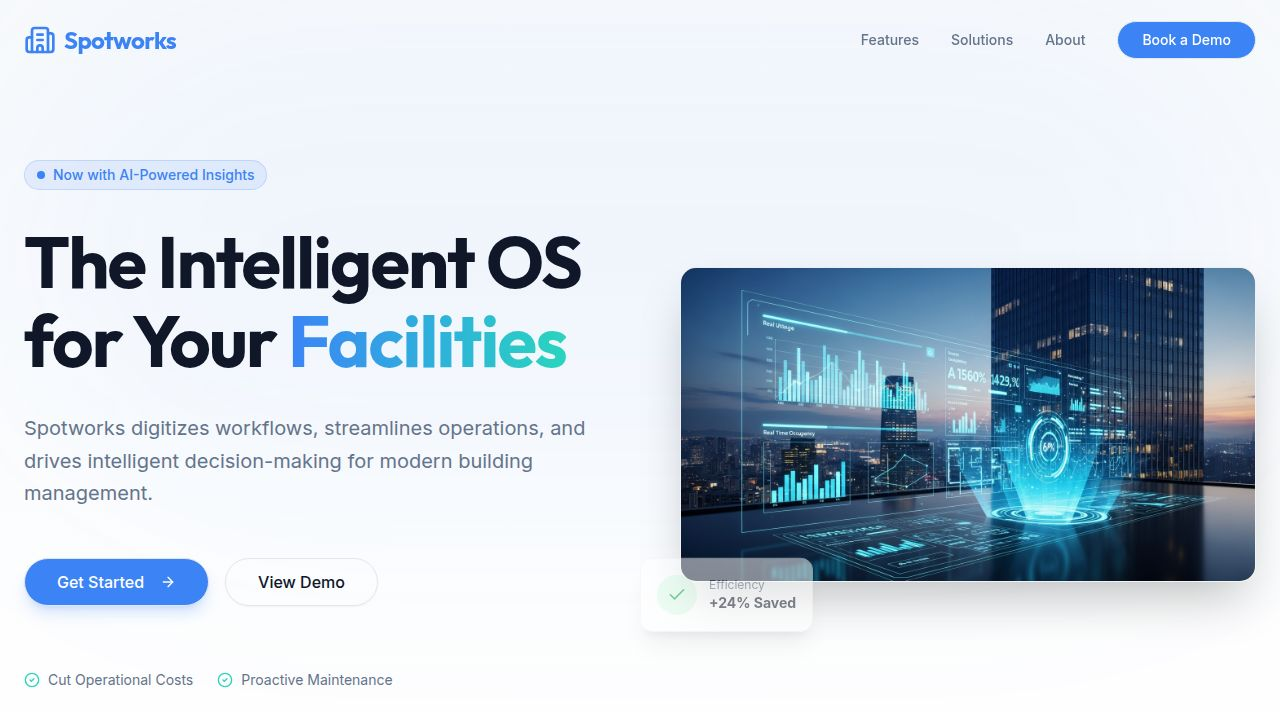
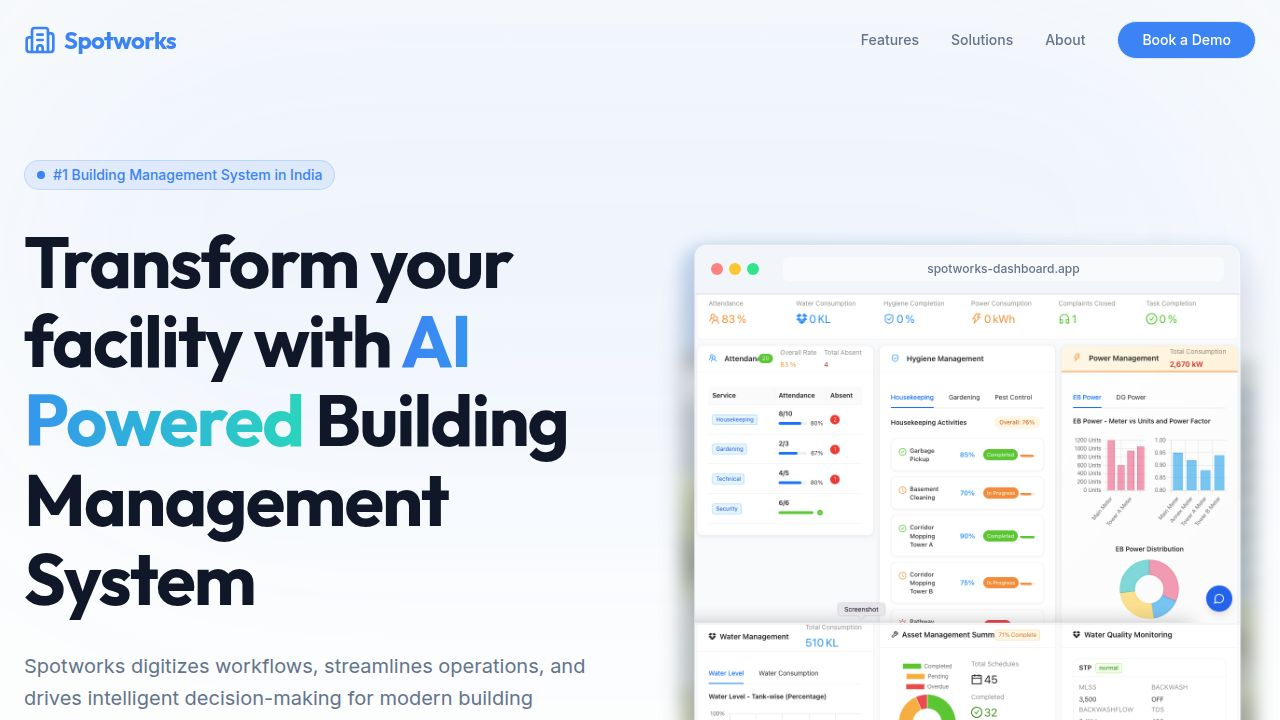
Combine dashboard images into a single application view
Integrate two dashboard screenshots into a unified window container, overlaying them onto a blurred background image of a Bangalore residential complex.

Replit-Commit-Author: Agent
Replit-Commit-Session-Id: 6fe2b32b-3a3d-48ad-bf62-5d68a3ad3876
Replit-Commit-Checkpoint-Type: full_checkpoint
Replit-Commit-Event-Id: 4e037a2d-032e-45ed-bcba-53b3e1752d0f
Replit-Commit-Screenshot-Url: https://storage.googleapis.com/screenshot-production-us-central1/116a396b-b7e3-476f-884f-2fcf0351d495/6fe2b32b-3a3d-48ad-bf62-5d68a3ad3876/M1GJejG

diff --git a/client/src/components/sections/hero.tsx b/client/src/components/sections/hero.tsx
@@ -1,8 +1,8 @@
 import { Button } from "@/components/ui/button";
 import { ArrowRight, CheckCircle2 } from "lucide-react";
 import { motion } from "framer-motion";
-import dashboard1 from "@assets/Dashboard_1_1764862219140.png";
-import dashboard2 from "@assets/Dashboard_2_1764862219143.png";
+import dashboard1 from "@assets/Dashboard_1_1764862596336.png";
+import dashboard2 from "@assets/Dashboard_2_1764862596340.png";
 import bgImage from "@assets/generated_images/modern_luxury_residential_apartment_complex_in_bangalore_with_lush_greenery_and_skyline.png";
 
 export function Hero() {
@@ -55,63 +55,71 @@ export function Hero() {
             </div>
           </div>
 
-          {/* Hero Image/Data Composition */}
-          <div className="lg:w-1/2 relative">
-             {/* Base Image: Bangalore Apartment */}
-            <div className="relative rounded-2xl overflow-hidden shadow-2xl border border-white/20 dark:border-slate-800 bg-slate-900/5 dark:bg-white/5 backdrop-blur-sm group aspect-[4/3]">
-              <div className="absolute inset-0 bg-gradient-to-tr from-primary/10 to-transparent opacity-0 group-hover:opacity-100 transition-opacity duration-500 pointer-events-none" />
-              <img 
+          {/* Right Side Visuals */}
+          <div className="lg:w-1/2 relative flex justify-center items-center">
+            
+            {/* Background Context Image - Faded & Blurred */}
+            <div className="absolute inset-0 rounded-3xl overflow-hidden opacity-40 blur-sm border border-slate-200 dark:border-slate-800">
+               <img 
                 src={bgImage} 
-                alt="Modern Residential Complex in Bangalore" 
-                className="w-full h-full object-cover transform group-hover:scale-105 transition-transform duration-700"
+                alt="Bangalore Context" 
+                className="w-full h-full object-cover"
               />
-              {/* Overlay Darkener for better contrast if needed */}
-              <div className="absolute inset-0 bg-slate-900/20 mix-blend-multiply" />
             </div>
 
-            {/* Dashboard 1 Overlay */}
+            {/* Unified Dashboard Window */}
             <motion.div 
-              initial={{ opacity: 0, y: 20 }}
-              animate={{ opacity: 1, y: 0 }}
-              transition={{ delay: 0.3, duration: 0.8 }}
-              className="absolute -bottom-10 -left-10 w-[70%] z-20 rounded-xl overflow-hidden shadow-2xl border border-white/40 bg-white/90 backdrop-blur-md dark:bg-slate-900/90 dark:border-slate-700"
+              initial={{ opacity: 0, scale: 0.95, y: 20 }}
+              animate={{ opacity: 1, scale: 1, y: 0 }}
+              transition={{ duration: 0.8, ease: "easeOut" }}
+              className="relative z-20 w-[95%] max-h-[600px] overflow-y-auto rounded-xl shadow-2xl border border-slate-200 dark:border-slate-700 bg-white dark:bg-slate-900 flex flex-col no-scrollbar"
             >
-              <img 
-                src={dashboard1} 
-                alt="Spotworks Dashboard Data" 
-                className="w-full h-auto"
-              />
-            </motion.div>
+              {/* Window Header */}
+              <div className="sticky top-0 z-30 flex items-center gap-2 px-4 py-3 bg-slate-100/90 dark:bg-slate-800/90 backdrop-blur-md border-b border-slate-200 dark:border-slate-700">
+                <div className="flex gap-1.5">
+                  <div className="w-3 h-3 rounded-full bg-red-400/80" />
+                  <div className="w-3 h-3 rounded-full bg-amber-400/80" />
+                  <div className="w-3 h-3 rounded-full bg-green-400/80" />
+                </div>
+                <div className="ml-4 px-3 py-1 rounded-md bg-white/50 dark:bg-black/20 text-xs font-medium text-muted-foreground flex-1 text-center">
+                  spotworks-dashboard.app
+                </div>
+              </div>
 
-            {/* Dashboard 2 Overlay */}
-            <motion.div 
-              initial={{ opacity: 0, x: 20 }}
-              animate={{ opacity: 1, x: 0 }}
-              transition={{ delay: 0.6, duration: 0.8 }}
-              className="absolute -top-10 -right-6 w-[45%] z-30 rounded-xl overflow-hidden shadow-xl border border-white/40 bg-white/90 backdrop-blur-md dark:bg-slate-900/90 dark:border-slate-700"
-            >
-              <img 
-                src={dashboard2} 
-                alt="Spotworks Analytics Data" 
-                className="w-full h-auto"
-              />
+              {/* Stitched Content */}
+              <div className="flex flex-col">
+                <img 
+                  src={dashboard1} 
+                  alt="Spotworks Operations Dashboard" 
+                  className="w-full h-auto object-cover border-b border-slate-100 dark:border-slate-800"
+                />
+                <img 
+                  src={dashboard2} 
+                  alt="Spotworks Utilities Dashboard" 
+                  className="w-full h-auto object-cover"
+                />
+              </div>
+
             </motion.div>
             
-            {/* Floating Pill Decoration */}
+            {/* Floating Badge */}
             <motion.div 
-              initial={{ y: 20, opacity: 0 }}
-              animate={{ y: 0, opacity: 1 }}
-              transition={{ delay: 0.9, duration: 0.8 }}
-              className="absolute bottom-10 -right-10 p-4 bg-white dark:bg-slate-900 rounded-xl shadow-xl border border-slate-100 dark:border-slate-800 flex items-center gap-3 max-w-[200px] z-40"
+              initial={{ x: 20, opacity: 0 }}
+              animate={{ x: 0, opacity: 1 }}
+              transition={{ delay: 1, duration: 0.8 }}
+              className="absolute -right-4 bottom-20 bg-white dark:bg-slate-800 p-4 rounded-xl shadow-xl border border-slate-100 dark:border-slate-700 z-30"
             >
-              <div className="h-10 w-10 rounded-full bg-green-100 dark:bg-green-900/30 flex items-center justify-center text-green-600 dark:text-green-400">
-                <svg xmlns="http://www.w3.org/2000/svg" width="20" height="20" viewBox="0 0 24 24" fill="none" stroke="currentColor" strokeWidth="2" strokeLinecap="round" strokeLinejoin="round"><polyline points="20 6 9 17 4 12"></polyline></svg>
-              </div>
-              <div>
-                <p className="text-xs text-muted-foreground">Efficiency</p>
-                <p className="text-sm font-bold text-foreground">+24% Saved</p>
+              <div className="flex items-center gap-3">
+                <div className="bg-green-100 dark:bg-green-900/30 p-2 rounded-lg">
+                  <CheckCircle2 className="w-6 h-6 text-green-600 dark:text-green-400" />
+                </div>
+                <div>
+                  <p className="text-xs text-muted-foreground uppercase font-bold tracking-wider">System Status</p>
+                  <p className="font-bold text-foreground">All Systems Optimal</p>
+                </div>
               </div>
             </motion.div>
+
           </div>
         </div>
       </div>
